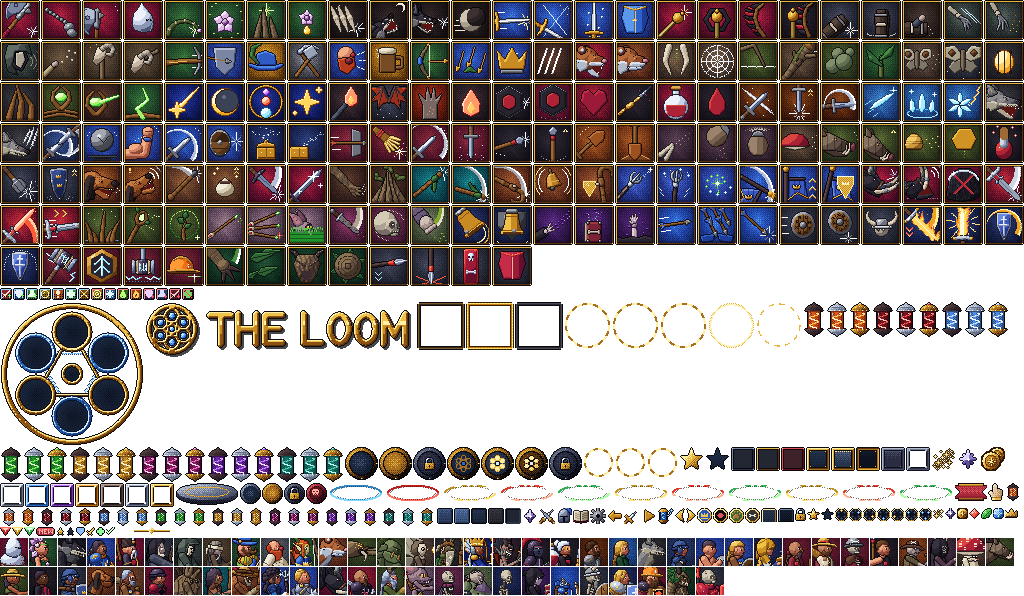
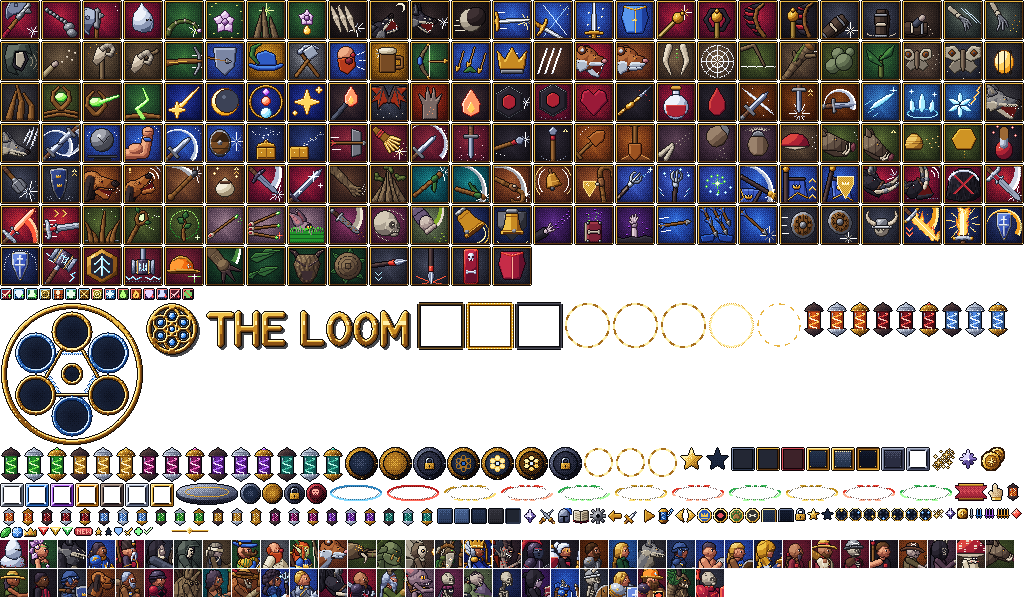
Champions screen: filter by rarity
COMMON, ELITE and HEROIC tabs after the class tabs, combining with affinity
and class as those do; their icons are one, two and three small swords in the
rarity's colour. The tab row is centred to hold them. DESIGN_DECISIONS 85.

diff --git a/src/game/screens/collection.ts b/src/game/screens/collection.ts
@@ -23,11 +23,15 @@ import { BaseScreen, Diorama } from './base';
 /** The filter tabs after ALL: one per affinity, then one per class. */
 const AFFINITY_TABS = Object.keys(AFFINITIES) as Affinity[];
 const ROLE_TABS: Role[] = ['Damage', 'Tank', 'Support'];
+/** The rarities the roster holds, the commonest first (a rarity no champion has yet gets no tab). */
+const RARITY_TABS = (Object.keys(RARITIES) as Rarity[]).filter((r) => CHAMPIONS.some((c) => c.rarity === r)).sort((a, b) => RARITIES[a].rank - RARITIES[b].rank);
 /** Rarest first: in a faction's group every rarity has rows of its own (Jakub, 2026-10-12). */
 const RARITY_ROWS = (Object.keys(RARITIES) as Rarity[]).sort((a, b) => RARITIES[b].rank - RARITIES[a].rank);
 
 /** Card grid geometry and the window it scrolls in (below the filter tabs). */
 const CW = 112, CH = 140, GAP = 8, COLS = 5;
+/** Space between the groups of filter tabs (affinity, class, rarity). */
+const GROUP_TAB_GAP = 6;
 const VIEW: Rect4 = [0, 54, W, H - 54];
 /** room above the first row for the NEW badges, and below the last */
 const PAD_TOP = 5, PAD_BOTTOM = 6;
@@ -45,6 +49,7 @@ interface Slot {
 export class CollectionScreen extends BaseScreen {
   private affinity: Affinity | 'all' = 'all';
   private role: Role | null = null;
+  private rarity: Rarity | null = null;
   private diorama: Diorama;
   private hoverSince = new Map<string, number>();
   private scroll = new Scroller();
@@ -82,14 +87,15 @@ export class CollectionScreen extends BaseScreen {
     else super.key(k);
   }
 
-  private setFilter(affinity: Affinity | 'all', role: Role | null) {
+  private setFilter(affinity: Affinity | 'all', role: Role | null, rarity: Rarity | null) {
     this.affinity = affinity;
     this.role = role;
+    this.rarity = rarity;
     this.scroll.to(0);
   }
 
   private passes(c: ChampionDef): boolean {
-    return (this.affinity === 'all' || c.affinity === this.affinity) && (!this.role || c.role === this.role);
+    return (this.affinity === 'all' || c.affinity === this.affinity) && (!this.role || c.role === this.role) && (!this.rarity || c.rarity === this.rarity);
   }
 
   /**
@@ -125,25 +131,30 @@ export class CollectionScreen extends BaseScreen {
     const owned = CHAMPIONS.filter((c) => isUnlocked(this.archivist, c.id)).length;
     this.header(ctx, 'CHAMPIONS', `${owned} / ${CHAMPIONS.length} recruited`);
 
-    // filter tabs: ALL, the affinities, then the classes; an affinity and a class combine,
-    // a lit tab clicked again lets go of its filter, ALL lets go of both
-    let tx = 20;
-    const tab = (id: string, label: string, icon: string | null, on: boolean, click: () => void) => {
-      const w = ui.measure(label) + (icon ? 28 : 16);
-      const hot = ui.hot(id, tx, 36, w, 16);
-      nine(ctx, this.a.ui.img, ui.part(on ? 'tab_on' : 'tab_off'), tx, 36, w, 16, 5);
-      if (icon) {
-        const r = ui.part(icon);
-        ui.blit(ctx, icon, tx + 6 + Math.floor((11 - r[2]) / 2), 36 + Math.floor((16 - r[3]) / 2));
+    // filter tabs: ALL, the affinities, the classes, then the rarities; an affinity, a class and
+    // a rarity combine, a lit tab clicked again lets go of its filter, ALL lets go of all three;
+    // the row is laid out first, then centred
+    type Tab = { id: string; label: string; icon: string | null; on: boolean; click: () => void; gap: number };
+    const tabs: Tab[] = [{ id: 'tab_all', label: 'ALL', icon: null, on: this.affinity === 'all' && !this.role && !this.rarity, click: () => this.setFilter('all', null, null), gap: 0 }];
+    AFFINITY_TABS.forEach((f) => tabs.push({ id: 'tab_' + f, label: AFFINITIES[f].name.toUpperCase(), icon: 'gem_' + f, on: this.affinity === f, click: () => this.setFilter(this.affinity === f ? 'all' : f, this.role, this.rarity), gap: 0 }));
+    ROLE_TABS.forEach((r, i) => tabs.push({ id: 'tab_' + r, label: r.toUpperCase(), icon: 'role_' + r, on: this.role === r, click: () => this.setFilter(this.affinity, this.role === r ? null : r, this.rarity), gap: i ? 0 : GROUP_TAB_GAP }));
+    RARITY_TABS.forEach((r, i) => tabs.push({ id: 'tab_' + r, label: RARITIES[r].name.toUpperCase(), icon: 'rarity_' + r, on: this.rarity === r, click: () => this.setFilter(this.affinity, this.role, this.rarity === r ? null : r), gap: i ? 0 : GROUP_TAB_GAP }));
+    const width = (t: Tab) => ui.measure(t.label) + (t.icon ? 28 : 16);
+    const total = tabs.reduce((s, t, i) => s + t.gap + width(t) + (i ? 4 : 0), 0);
+    let tx = Math.round((W - total) / 2);
+    for (const t of tabs) {
+      tx += t.gap;
+      const w = width(t);
+      const hot = ui.hot(t.id, tx, 36, w, 16);
+      nine(ctx, this.a.ui.img, ui.part(t.on ? 'tab_on' : 'tab_off'), tx, 36, w, 16, 5);
+      if (t.icon) {
+        const r = ui.part(t.icon);
+        ui.blit(ctx, t.icon, tx + 6 + Math.floor((11 - r[2]) / 2), 36 + Math.floor((16 - r[3]) / 2));
       }
-      ui.text(ctx, label, tx + (icon ? 20 : 8), 40, { color: on || hot ? COLORS.goldHi : COLORS.dim });
-      ui.regions.push({ id, x: tx, y: 36, w, h: 16, click });
+      ui.text(ctx, t.label, tx + (t.icon ? 20 : 8), 40, { color: t.on || hot ? COLORS.goldHi : COLORS.dim });
+      ui.regions.push({ id: t.id, x: tx, y: 36, w, h: 16, click: t.click });
       tx += w + 4;
-    };
-    tab('tab_all', 'ALL', null, this.affinity === 'all' && !this.role, () => this.setFilter('all', null));
-    for (const f of AFFINITY_TABS) tab('tab_' + f, AFFINITIES[f].name.toUpperCase(), 'gem_' + f, this.affinity === f, () => this.setFilter(this.affinity === f ? 'all' : f, this.role));
-    tx += 10;
-    for (const r of ROLE_TABS) tab('tab_' + r, r.toUpperCase(), 'role_' + r, this.role === r, () => this.setFilter(this.affinity, this.role === r ? null : r));
+    }
 
     const { slots, heads, height } = this.layout();
     const order = slots.map((s) => s.c);
@@ -160,7 +171,7 @@ export class CollectionScreen extends BaseScreen {
     ctx.clip();
     for (const h of heads) this.head(ctx, h.faction, GRID_X, oy + h.y, GRID_W);
     for (const sl of slots) this.card(ctx, sl.c, sl.x, oy + sl.y, CW, CH, order);
-    if (!slots.length) ui.text(ctx, 'No champion is both of these.', W / 2, vy + 60, { color: COLORS.dim, align: 'center' });
+    if (!slots.length) ui.text(ctx, 'No champion matches all of these.', W / 2, vy + 60, { color: COLORS.dim, align: 'center' });
     ctx.restore();
     this.scrollHints(ctx);
   }

diff --git a/tools/art/ui/index.ts b/tools/art/ui/index.ts
@@ -10,7 +10,7 @@ import { rampDither } from '../paint.ts';
 import { Bitmap, hex } from '../raster.ts';
 import { solve } from '../rig.ts';
 import { banner, button, chevron, footRing, GLYPHS, panel, skillFrame, smallGlyph } from './kit.ts';
-import { arrow, bigButton, campGlow, campNode, cardFrame, check, crown, divider, emblem, gem, lock, logo, mapNode, MENU_ICONS, newBadge, nodeGlow, podium, questKnot, roleIcon, star, tab, tutHand, well } from './menu.ts';
+import { arrow, bigButton, campGlow, campNode, cardFrame, check, crown, divider, emblem, gem, lock, logo, mapNode, MENU_ICONS, newBadge, nodeGlow, podium, questKnot, rarityIcon, roleIcon, star, tab, tutHand, well } from './menu.ts';
 import { matrixParts } from './matrix.ts';
 import { STATUS_ICONS, statusIcon } from './status.ts';
 import { goldCoin } from './gold.ts';
@@ -94,6 +94,7 @@ export function allParts(): Record<string, Bitmap> {
     biggold: goldCoin(24),
   };
   for (const [r, ramp] of Object.entries(UIR.rarity)) parts['card_' + r] = cardFrame(ramp);
+  for (const r of Object.keys(UIR.rarity) as (keyof typeof UIR.rarity)[]) parts['rarity_' + r] = rarityIcon(r);
   for (const a of Object.keys(UIR.affinity) as (keyof typeof UIR.affinity)[]) parts['gem_' + a] = gem(a);
   for (const f of Object.keys(UIR.faction) as (keyof typeof UIR.faction)[]) parts['emblem_' + f] = emblem(f);
   for (const r of Object.keys(UIR.role) as (keyof typeof UIR.role)[]) parts['role_' + r] = roleIcon(r);

diff --git a/tools/art/ui/menu.ts b/tools/art/ui/menu.ts
@@ -329,6 +329,26 @@ export function roleIcon(role: keyof typeof UIR.role): Bitmap {
   return outline(b, DARK);
 }
 
+/**
+ * The rarity filter's tab icon (Jakub, 2026-11-04): small swords standing side
+ * by side, one for Common, two for Elite, three for Heroic (four for Mythic),
+ * in their rarity's ramp: a lit tip, the blade, the guard, the grip, the pommel.
+ */
+export function rarityIcon(r: keyof typeof UIR.rarity): Bitmap {
+  const ramp = UIR.rarity[r];
+  const n = { common: 1, elite: 2, heroic: 3, mythic: 4 }[r];
+  const b = new Bitmap(3 * n + 2, 11);
+  for (let k = 0; k < n; k++) {
+    const x = 2 + 3 * k;
+    b.set(x, 1, ramp[4]);
+    for (let y = 2; y <= 6; y++) b.set(x, y, ramp[3]);
+    for (let dx = -1; dx <= 1; dx++) b.set(x + dx, 7, ramp[2]);
+    b.set(x, 8, ramp[1]);
+    b.set(x, 9, ramp[3]);
+  }
+  return outline(b, DARK);
+}
+
 /** Five-point star; filled gold or an empty socket. */
 export function star(size: number, filled: boolean): Bitmap {
   const b = new Bitmap(size, size);

diff --git a/README.md b/README.md
@@ -30,7 +30,7 @@ A turn-based hero collector in the style of **RAID: Shadow Legends** and **Star 
 - **A tutorial for new accounts**, made with driver.js: the screen dims round the spot to click, gold corners breathe round it and a gloved hand points at it, while a card in the game's own pixel font says why; it leads from the Sanctum through the campaign and a first battle (the turn meter, a skill, a target, a cooldown) to the Challenges, where finishing it is the Journey's first quest. It can be skipped, and played again from the Journey. A later lesson walks the first summon, once its Stardust is in.
 - **Gold and the Merchant**: the game's coin (every account starts with none; the Journey gives 5000 for 3-10 and 10000 for 8-10) and the Merchant's Stall on the Sanctum's plaza. The Merchant buys loose spools for 100, 300 or 500 Gold by grade and sells his ten wares (5 Ashen, 3 Silver, 2 Gilded) at twenty times that; 5000 Gold rotates the wares.
 - **Summoning at the Wishing Star**: every victory finds Stardust, 100 Stardust merge into a Soulstar, and a Soulstar summons a champion you do not have yet: 70% Common, 25% Elite, 5% Heroic. Wish for a faction and a role first and the champions it names grow likelier (never certain); the Wishing Star, hung in the Sanctum's sky on a thread of the Loom, shows the odds, your wish's chance and every champion still scattered, and a summon draws the light in, turns it the colour of the rarity that answers and opens on the champion's ceremony.
-- **A collection** of champions in groups by faction, the rarest first and one rarity per row, filtered by affinity and by class, with locked silhouettes, and a detail page with every animation and skill.
+- **A collection** of champions in groups by faction, the rarest first and one rarity per row, filtered by affinity, by class and by rarity, with locked silhouettes, and a detail page with every animation and skill.
 - **The Academy**: an in-game codex that teaches combat, the turn meter, damage, affinities, all buffs, debuffs and special mechanics, with live demonstrations.
 - **Real mechanics**: turn meter, A1/A2/A3 cooldowns, 15 statuses, the affinity cycle (Ember beats Bloom, Bloom beats Tide, Tide beats Ember), accuracy against resistance for debuffs, counterattacks, dispels, lifesteal, execute, turn meter boosts, passives (Undying, Overdrive, Rebuke, which answers a critical hit, stat passives that raise a stat in every battle, Shields given to the frailest at the end of a turn, to an ally just struck or to the struck one himself, a crit that grows as allies fall, Poison answering a blow, Regen answering a debuff, and Taunt with a heal answering a critical hit that leaves its holder standing), a cleanse, a blow that heals its user, a buff placed before the blow, a fallen ally raised, bosses, stars, auto battle and speed controls.
 - **Any browser window, PC or phone**: the game fills the window it is opened in, as far as its 16:9 allows, its pixels sharp and even at any size; a finger taps and drags the lists and the map; held upright a phone is asked to turn sideways; FULLSCREEN in Options where the browser allows it.

diff --git a/docs/DESIGN_DECISIONS.md b/docs/DESIGN_DECISIONS.md
@@ -109,6 +109,7 @@ Section 7 lists what is not decided.
 | 2026-11-01 | The Journey gains Beat Campaign 3-10, 250 Stardust, between 1-10 and 5-10; the whole-map popup is removed | 55 |
 | 2026-11-01 | The map's left arrow and A reach the world's west end | 56 |
 | 2026-11-02 | Zone 9, the Sleeping Archipelago: battle background, the world map extended east, ten placeholder stages | 5.12 |
+| 2026-11-04 | The Champions screen filters by rarity too, beside affinity and class; its tabs show one, two and three swords | 85 |
 | 2026-11-04 | The champion screen's background by faction: Court of Root the Verdant Grove, Ashveil Reign the Dead Forest, Sanguine Dominion Earth Scars, Azure Crown the Snowy Mesa | 84 |
 | 2026-11-03 | The game fills the browser window, PC or phone; touch drags the lists; FULLSCREEN in Options | 83 |
 | 2026-11-03 | The Journey's spools: Finish Tutorial 2 Ashen Vigor, 1-3 2 Silver Sunder, 1-10 2 Gilded Vigor and 2 Sunder | 82 |
@@ -4867,3 +4868,15 @@ Built as he said (`CARD_ZONE` in `src/game/data/zones.ts`, used by `src/game/scr
 
 Stepping to the next or previous champion (the arrows, Q / E) changes the background with the faction; before, the
 first champion's stayed. The Academy's demonstrations keep their own home zone (`homeZone`), which this did not touch.
+
+## 85. The rarity filter (received 2026-11-04)
+
+> i also want to have filter in champion screen based on rarity. be consistent, we already have filters there for affinity and role.
+
+> change icons in champion filter for rarity: common should have small sword icon. elite should have two swords icon. heroic should have three swords icon.
+
+Built as he said (`src/game/screens/collection.ts`, the icons `rarity_<id>` in `tools/art/ui/menu.ts`): after the class
+tabs, a tab for each rarity the roster holds (COMMON, ELITE, HEROIC; Mythic gets one once a champion has it), each with
+its icon: one small sword for Common, two for Elite, three for Heroic, in the rarity's colour. It works as the other two
+filters do: a rarity combines with an affinity and a class, a lit tab clicked again lets go of it, ALL lets go of all
+three. The row of tabs is now centred, with a little less space between its groups, to hold the three new tabs.

diff --git a/docs/UI_GUIDE.md b/docs/UI_GUIDE.md
@@ -24,7 +24,7 @@ Every screen is drawn into the same 640x360 buffer as the battle, with the pixel
 | `well` | inset area inside panels (tips, formulas, key tables) |
 | `big_up/hover/down/off` | menu buttons (8 px corners), bold label, optional `mi_*` glyph |
 | `btn_up/hover/down/off` | small HUD and toggle buttons (4 px corners) |
-| `tab_on`, `tab_off` | tab strips (the collection's affinity and class filters, Weaving's slot and state filters, champion page) |
+| `tab_on`, `tab_off` | tab strips (the collection's affinity, class and rarity filters, Weaving's slot and state filters, champion page) |
 | `card_<rarity>`, `card_locked` | card frames with transparent centers: draw the card content first, the frame last |
 | `gem_<affinity>`, `emblem_<faction>`, `role_<role>` | category glyphs; always next to their name the first time a screen shows them |
 | `star_s/m/l(_off)` | stage stars on the map (s), panels (m), results (l) |
